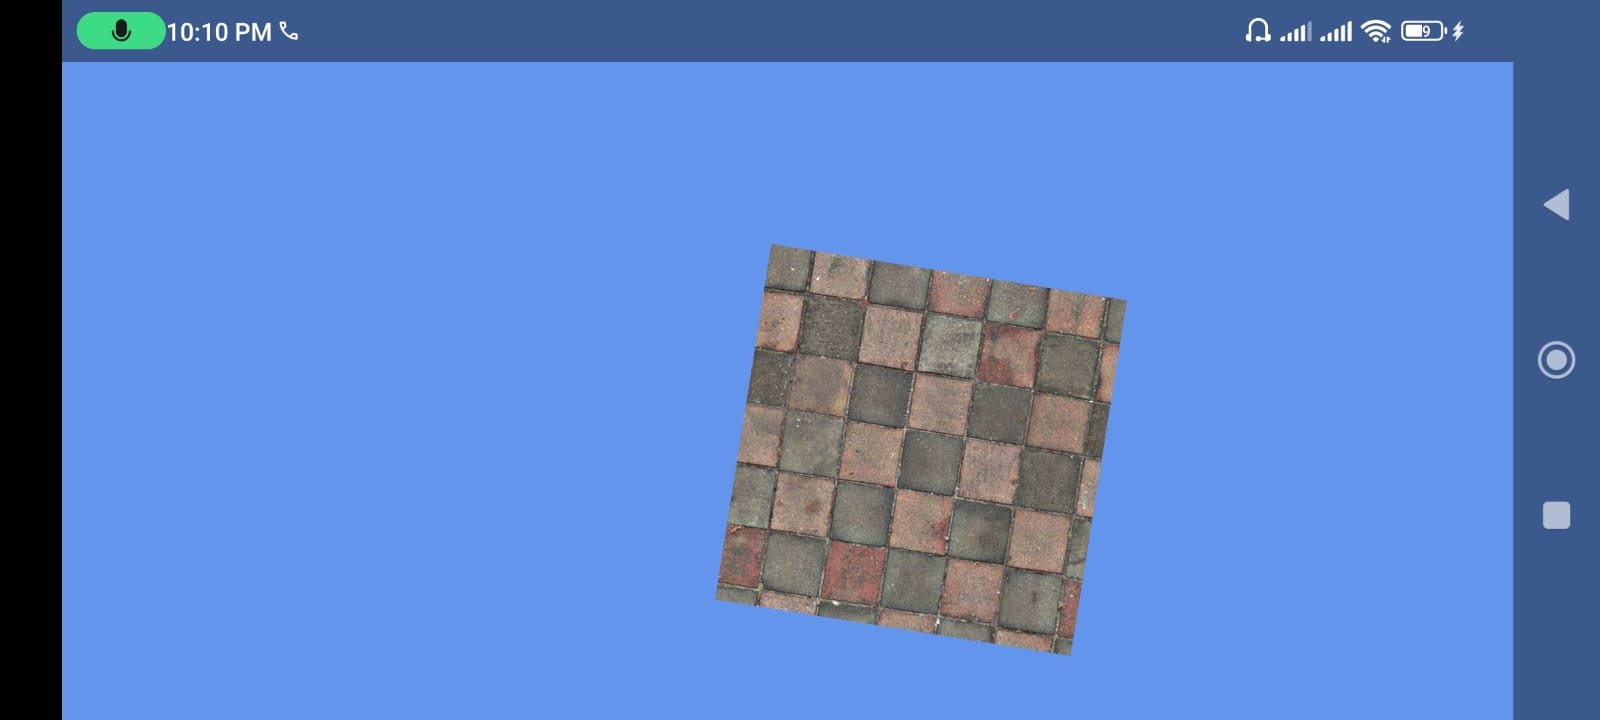
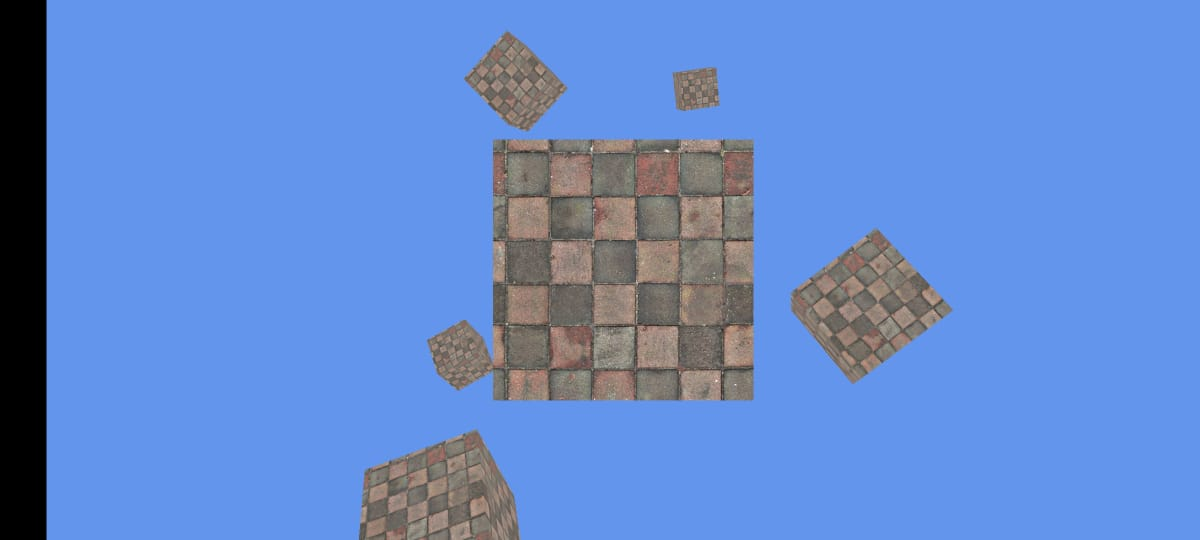
Rendering multiple cubes

diff --git a/app/src/main/cpp/Renderer.cpp b/app/src/main/cpp/Renderer.cpp
@@ -36,23 +36,6 @@ aout << std::endl;\
 //! Color for cornflower blue. Can be sent directly to glClearColor
 #define CORNFLOWER_BLUE 100 / 255.f, 149 / 255.f, 237 / 255.f, 1
 
-/*!
- * Half the height of the projection matrix. This gives you a renderable area of height 4 ranging
- * from -2 to 2
- */
-static constexpr float kProjectionHalfHeight = 2.f;
-
-/*!
- * The near plane distance for the projection matrix. Since this is an orthographic projection
- * matrix, it's convenient to have negative values for sorting (and avoiding z-fighting at 0).
- */
-static constexpr float kProjectionNearPlane = -1.f;
-
-/*!
- * The far plane distance for the projection matrix. Since this is an orthographic porjection
- * matrix, it's convenient to have the far plane equidistant from 0 as the near plane.
- */
-static constexpr float kProjectionFarPlane = 1.f;
 
 
 
@@ -73,6 +56,11 @@ Renderer::~Renderer() {
 }
 
 
+#include <glm/glm.hpp>
+#include <glm/gtc/matrix_transform.hpp>
+#include <glm/gtc/type_ptr.hpp>
+
+glm::mat4 model = glm::mat4(1.0f);
 
 void Renderer::render() {
     // Check to see if the surface has changed size. This is _necessary_ to do every frame when
@@ -84,29 +72,39 @@ void Renderer::render() {
     // even if you change from the sample orthographic projection matrix as your aspect ratio has
     // likely changed.
     if (shaderNeedsNewProjectionMatrix_) {
-        // a placeholder projection matrix allocated on the stack. Column-major memory layout
-        float projectionMatrix[16] = {0};
 
-        // build an orthographic projection matrix for 2d rendering
-        Utility::buildOrthographicMatrix(
-                projectionMatrix,
-                kProjectionHalfHeight,
-                float(width_) / height_,
-                kProjectionNearPlane,
-                kProjectionFarPlane);
+        model = glm::rotate(model, glm::radians(-55.0f), glm::vec3(1.0f, 0.0f, 0.0f));
 
-        // send the matrix to the shader
-        // Note: the shader must be active for this to work. Since we only have one shader for this
-        // demo, we can assume that it's active.
-        shader_->setProjectionMatrix(projectionMatrix);
+        glm::mat4 view = glm::mat4(1.0f);
+        // note that we're translating the scene in the reverse direction of where we want to move
+        view = glm::translate(view, glm::vec3(0.0f, 0.0f, -3.0f));
+
+        glm::mat4 proj = glm::perspective(glm::radians(45.0f), (float)width_/(float)height_, 0.1f, 100.0f);
+
+        glm::mat4 trans = glm::translate(glm::mat4(1.0f), glm::vec3(0.5f, -0.5f, 1.f));
+
+
+        GLint projectionLoc = glGetUniformLocation(shader_->program_,"uProjection");
+        glUniformMatrix4fv(projectionLoc, 1, false, glm::value_ptr(proj));
+
+        GLint modelLoc = glGetUniformLocation(shader_->program_,"uModel");
+        glUniformMatrix4fv(modelLoc, 1, false, glm::value_ptr(model));
+
+        GLint viewLoc = glGetUniformLocation(shader_->program_,"uView");
+        glUniformMatrix4fv(viewLoc, 1, false, glm::value_ptr(view));
+
 
         // make sure the matrix isn't generated every frame
         shaderNeedsNewProjectionMatrix_ = false;
     }
+    model = glm::rotate(model,   glm::radians(1.0f), glm::vec3(0.5f, .5f, 0.5f));
+    GLint modelLoc = glGetUniformLocation(shader_->program_,"uModel");
+    glUniformMatrix4fv(modelLoc, 1, false, glm::value_ptr(model));
+
 
 
     // clear the color buffer
-    glClear(GL_COLOR_BUFFER_BIT);
+    glClear(GL_COLOR_BUFFER_BIT | GL_DEPTH_BUFFER_BIT);
 
     // Render all the models. There's no depth testing in this sample so they're accepted in the
     // order provided. But the sample EGL setup requests a 24 bit depth buffer so you could
@@ -135,7 +133,12 @@ std::string ReadShaderFile(AAssetManager *assetManager, const char* filename) {
     return fileContent;
 }
 
-void Renderer::initRenderer() {
+
+void Renderer::initRenderer()
+{
+
+    
+
     // Choose your render attributes
     constexpr EGLint attribs[] = {
             EGL_RENDERABLE_TYPE, EGL_OPENGL_ES3_BIT,
@@ -212,7 +215,9 @@ void Renderer::initRenderer() {
     shader_ = std::unique_ptr<Shader>(
             Shader::loadShader(ReadShaderFile(assetManager,"shaders/mainVertex.glsl"),
                                ReadShaderFile(assetManager,"shaders/mainFragment.glsl"),
-                               "inPosition", "inUV", "uProjection"));
+                               "inPosition",
+                               "inUV",
+                               "uProjection"));
     assert(shader_);
 
     // Note: there's only one shader in this demo, so I'll activate it here. For a more complex game
@@ -224,6 +229,7 @@ void Renderer::initRenderer() {
 
     // enable alpha globally for now, you probably don't want to do this in a game
     glEnable(GL_BLEND);
+    glEnable(GL_DEPTH_TEST);  
     glBlendFunc(GL_SRC_ALPHA, GL_ONE_MINUS_SRC_ALPHA);
 
     // get some demo models into memory
@@ -260,14 +266,53 @@ void Renderer::createModels() {
      * |   \ |
      * 3 --- 2
      */
-    std::vector<Vertex> vertices = {
-            Vertex(Vector3{1, 1, 0}, Vector2{0, 0}), // 0
-            Vertex(Vector3{-1, 1, 0}, Vector2{1, 0}), // 1
-            Vertex(Vector3{-1, -1, 0}, Vector2{1, 1}), // 2
-            Vertex(Vector3{1, -1, 0}, Vector2{0, 1}) // 3
-    };
+
+ std::vector<Vertex> vertices = {
+        Vertex(Vector3{ -0.5f, -0.5f, -0.5f, }, Vector2{ 0.0f, 0.0f }),
+        Vertex(Vector3{ 0.5f, -0.5f, -0.5f, }, Vector2{ 1.0f, 0.0f }),
+        Vertex(Vector3{0.5f,  0.5f, -0.5f,},Vector2{  1.0f, 1.0f}),
+        Vertex(Vector3{0.5f,  0.5f, -0.5f,},Vector2{  1.0f, 1.0f}),
+        Vertex(Vector3{-0.5f,  0.5f, -0.5f,},Vector2{  0.0f, 1.0f}),
+        Vertex(Vector3{-0.5f, -0.5f, -0.5f,},Vector2{  0.0f, 0.0f}),
+
+        Vertex(Vector3{-0.5f, -0.5f,  0.5f,},Vector2{  0.0f, 0.0f}),
+        Vertex(Vector3{0.5f, -0.5f,  0.5f,},Vector2{  1.0f, 0.0f}),
+        Vertex(Vector3{0.5f,  0.5f,  0.5f,},Vector2{  1.0f, 1.0f}),
+        Vertex(Vector3{0.5f,  0.5f,  0.5f,},Vector2{  1.0f, 1.0f}),
+        Vertex(Vector3{-0.5f,  0.5f,  0.5f,},Vector2{  0.0f, 1.0f}),
+        Vertex(Vector3{-0.5f, -0.5f,  0.5f,},Vector2{  0.0f, 0.0f}),
+
+        Vertex(Vector3{-0.5f,  0.5f,  0.5f,},Vector2{  1.0f, 0.0f}),
+        Vertex(Vector3{-0.5f,  0.5f, -0.5f,},Vector2{  1.0f, 1.0f}),
+        Vertex(Vector3{-0.5f, -0.5f, -0.5f,},Vector2{  0.0f, 1.0f}),
+        Vertex(Vector3{-0.5f, -0.5f, -0.5f,},Vector2{  0.0f, 1.0f}),
+        Vertex(Vector3{-0.5f, -0.5f,  0.5f,},Vector2{  0.0f, 0.0f}),
+        Vertex(Vector3{-0.5f,  0.5f,  0.5f,},Vector2{  1.0f, 0.0f}),
+
+         Vertex(Vector3{0.5f,  0.5f,  0.5f,},Vector2{  1.0f, 0.0f}),
+         Vertex(Vector3{0.5f,  0.5f, -0.5f,},Vector2{  1.0f, 1.0f}),
+         Vertex(Vector3{0.5f, -0.5f, -0.5f,},Vector2{  0.0f, 1.0f}),
+         Vertex(Vector3{0.5f, -0.5f, -0.5f,},Vector2{  0.0f, 1.0f}),
+         Vertex(Vector3{0.5f, -0.5f,  0.5f,},Vector2{  0.0f, 0.0f}),
+         Vertex(Vector3{0.5f,  0.5f,  0.5f,},Vector2{  1.0f, 0.0f}),
+
+        Vertex(Vector3{-0.5f, -0.5f, -0.5f,},Vector2{  0.0f, 1.0f}),
+         Vertex(Vector3{0.5f, -0.5f, -0.5f,},Vector2{  1.0f, 1.0f}),
+         Vertex(Vector3{0.5f, -0.5f,  0.5f,},Vector2{  1.0f, 0.0f}),
+         Vertex(Vector3{0.5f, -0.5f,  0.5f,},Vector2{  1.0f, 0.0f}),
+        Vertex(Vector3{-0.5f, -0.5f,  0.5f,},Vector2{  0.0f, 0.0f}),
+        Vertex(Vector3{-0.5f, -0.5f, -0.5f,},Vector2{  0.0f, 1.0f}),
+
+        Vertex(Vector3{-0.5f,  0.5f, -0.5f,},Vector2{  0.0f, 1.0f}),
+         Vertex(Vector3{0.5f,  0.5f, -0.5f,},Vector2{  1.0f, 1.0f}),
+         Vertex(Vector3{0.5f,  0.5f,  0.5f,},Vector2{  1.0f, 0.0f}),
+         Vertex(Vector3{0.5f,  0.5f,  0.5f,},Vector2{  1.0f, 0.0f}),
+        Vertex(Vector3{-0.5f,  0.5f,  0.5f,},Vector2{  0.0f, 0.0f}),
+        Vertex(Vector3{-0.5f,  0.5f, -0.5f},  Vector2{0.0f, 1.0f})
+};
+    
     std::vector<Index> indices = {
-            0, 1, 2, 0, 2, 3
+            0, 1, 2, 3,4,5, 6,7,8  ,9,10,11,  12,13,14,  15,16,17,  18,19,20,  21,22,23, 24,25,26,  27,28,29, 30,31,32, 33,34,35
     };
 
     // loads an image and assigns it to the square.

diff --git a/app/src/main/cpp/Shader.cpp b/app/src/main/cpp/Shader.cpp
@@ -3,6 +3,7 @@
 #include "AndroidOut.h"
 #include "Model.h"
 #include "Utility.h"
+#include <signal.h>
 
 Shader *Shader::loadShader(
         const std::string &vertexSource,
@@ -117,11 +118,24 @@ void Shader::activate() const {
 void Shader::deactivate() const {
     glUseProgram(0);
 }
+
 #include <glm/glm.hpp>
 #include <glm/gtc/matrix_transform.hpp>
 #include <glm/gtc/type_ptr.hpp>
 
-glm::mat4 trans = glm::translate(glm::mat4(1.0f), glm::vec3(0.5f, -0.5f, 1.f));
+    // world space positions of our cubes
+    glm::vec3 cubePositions[] = {
+        glm::vec3( 0.0f,  0.0f,  0.0f),
+        glm::vec3( 2.0f,  5.0f, -15.0f),
+        glm::vec3(-1.5f, -2.2f, -2.5f),
+        glm::vec3(-3.8f, -2.0f, -12.3f),
+        glm::vec3( 2.4f, -0.4f, -3.5f),
+        glm::vec3(-1.7f,  3.0f, -7.5f),
+        glm::vec3( 1.3f, -2.0f, -2.5f),
+        glm::vec3( 1.5f,  2.0f, -2.5f),
+        glm::vec3( 1.5f,  0.2f, -1.5f),
+        glm::vec3(-1.3f,  1.0f, -1.5f)
+    };
 
 void Shader::drawModel(const Model &model) const {
     // The position attribute is 3 floats
@@ -146,18 +160,28 @@ void Shader::drawModel(const Model &model) const {
     );
     glEnableVertexAttribArray(uv_);
 
-    trans = glm::rotate(trans, glm::radians(1.0f), glm::vec3(0.0, 0.0, 1.0));
-    unsigned int transformLoc = glGetUniformLocation(program_, "transform");
-    glUniformMatrix4fv(transformLoc, 1, GL_FALSE, glm::value_ptr(trans));
-
-
 
     // Setup the texture
     glActiveTexture(GL_TEXTURE0);
     glBindTexture(GL_TEXTURE_2D, model.getTexture().getTextureID());
 
     // Draw as indexed triangles
-    glDrawElements(GL_TRIANGLES, model.getIndexCount(), GL_UNSIGNED_SHORT, model.getIndexData());
+    // glDrawElements(GL_TRIANGLES, model.getIndexCount(), GL_UNSIGNED_SHORT, model.getIndexData());
+    for (unsigned int i = 0; i < 6; i++)
+    {
+        // calculate the model matrix for each object and pass it to shader before drawing
+        glm::mat4 uModel = glm::mat4(1.0f);
+        uModel = glm::translate(uModel, cubePositions[i]);
+        float angle = 20.0f * i;
+        uModel = glm::rotate(uModel, glm::radians(angle), glm::vec3(1.0f, 0.3f, 0.5f));
+
+        GLint modelLoc = glGetUniformLocation(program_,"uModel");
+        glUniformMatrix4fv(modelLoc, 1, false, glm::value_ptr(uModel));
+
+
+        glDrawElements(GL_TRIANGLES, model.getIndexCount(), GL_UNSIGNED_SHORT, model.getIndexData());
+     
+    }
 
     glDisableVertexAttribArray(uv_);
     glDisableVertexAttribArray(position_);

diff --git a/app/src/main/cpp/Shader.h b/app/src/main/cpp/Shader.h
@@ -63,6 +63,7 @@ public:
      */
     void setProjectionMatrix(float *projectionMatrix) const;
 
+    GLuint program_;
 private:
     /*!
      * Helper function to load a shader of a given type
@@ -89,7 +90,6 @@ private:
               uv_(uv),
               projectionMatrix_(projectionMatrix) {}
 
-    GLuint program_;
     GLint position_;
     GLint uv_;
     GLint projectionMatrix_;

diff --git a/README.md b/README.md
@@ -24,7 +24,7 @@ Before you begin, ensure you have met the following requirements:
 ## Project Structure
 
 ```
-AndroidOpenGLNDK/
+Android_3D_3rdPerson_Game/
 ├── app/
 │   ├── src/
 │   │   ├── main/
